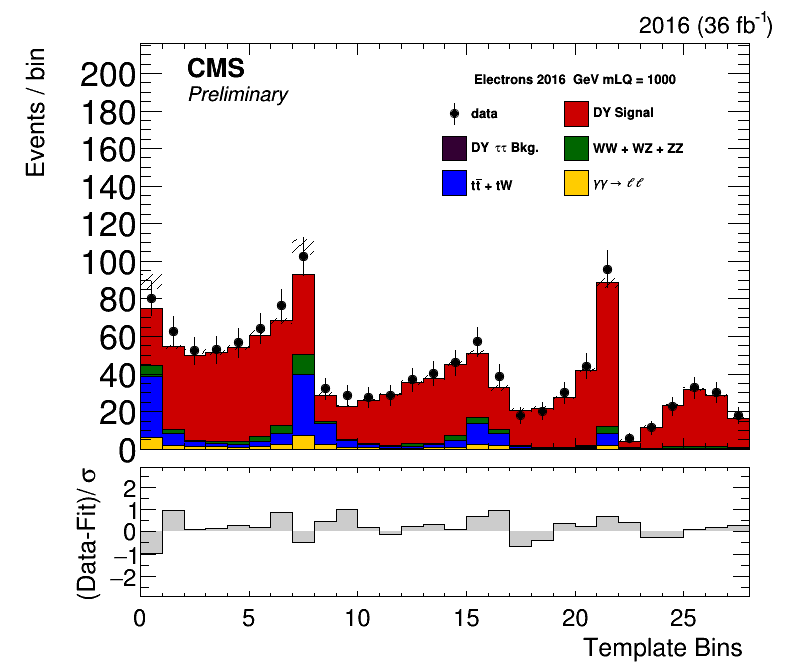
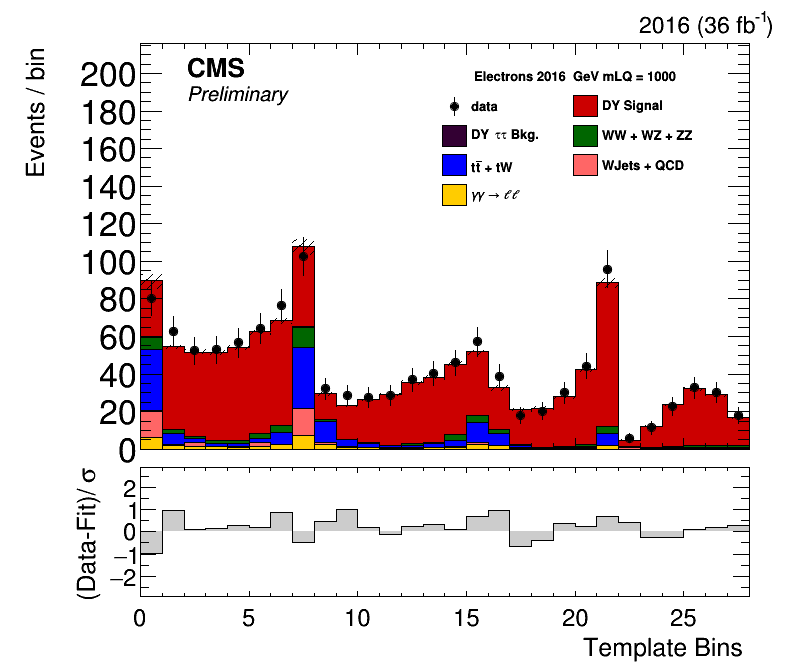
after updated postfit

diff --git a/analyze/combine/AFB_fits/scripts/LQ_plot_postfit.py b/analyze/combine/AFB_fits/scripts/LQ_plot_postfit.py
@@ -428,9 +428,9 @@ if(options.year < 0):
 else:
     years = [options.year]
 if options.q == "u":
-    h_names = ["gam", "LQint_u", "LQpure_u" ,"top", "db", "tautau", "dy"]
+    h_names = ["gam", "LQint_u", "LQpure_u" ,"qcd", "top", "db", "tautau", "dy"]
 elif options.q == "d":
-    h_names = ["gam", "LQint_d", "LQpure_d" ,"top", "db", "tautau", "dy"]
+    h_names = ["gam", "LQint_d", "LQpure_d" ,"qcd", "top", "db", "tautau", "dy"]
 #h_ss_names = ["bk", "dy", "qcd"]
 
 
